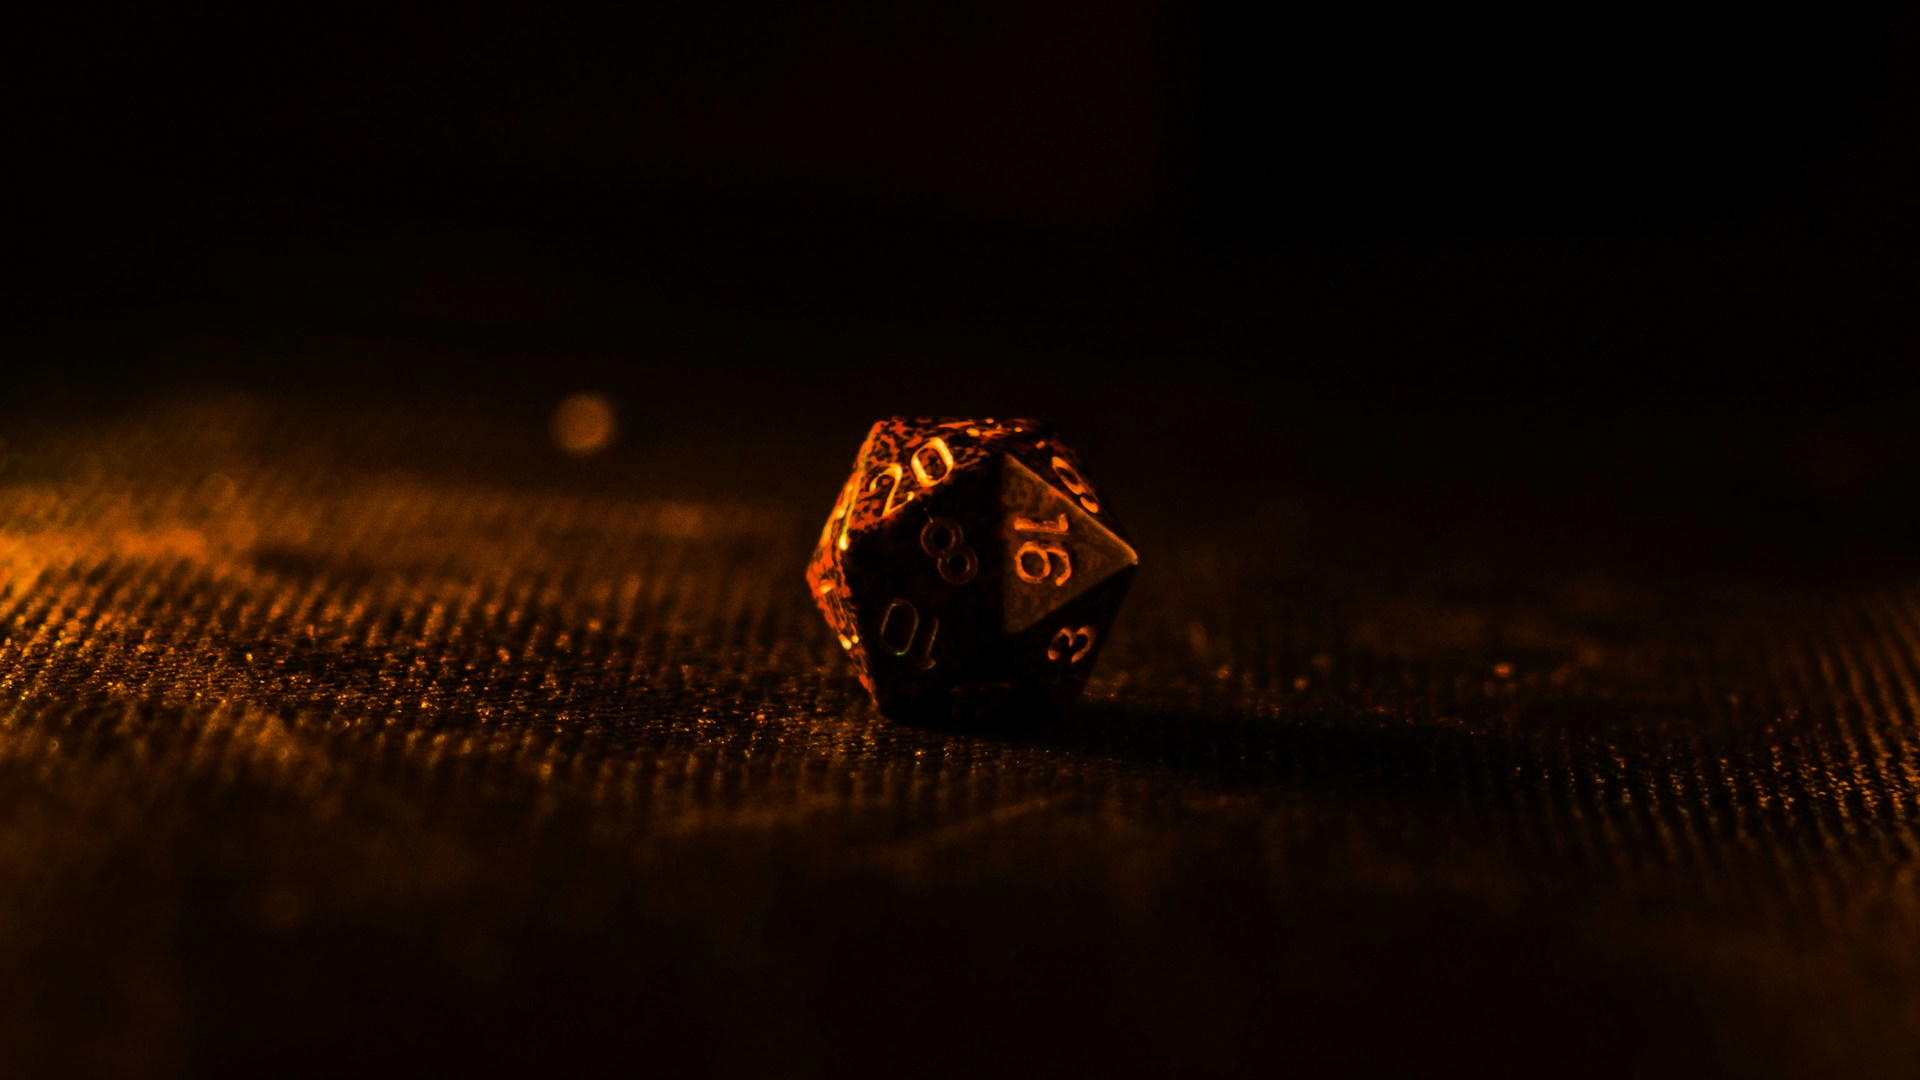
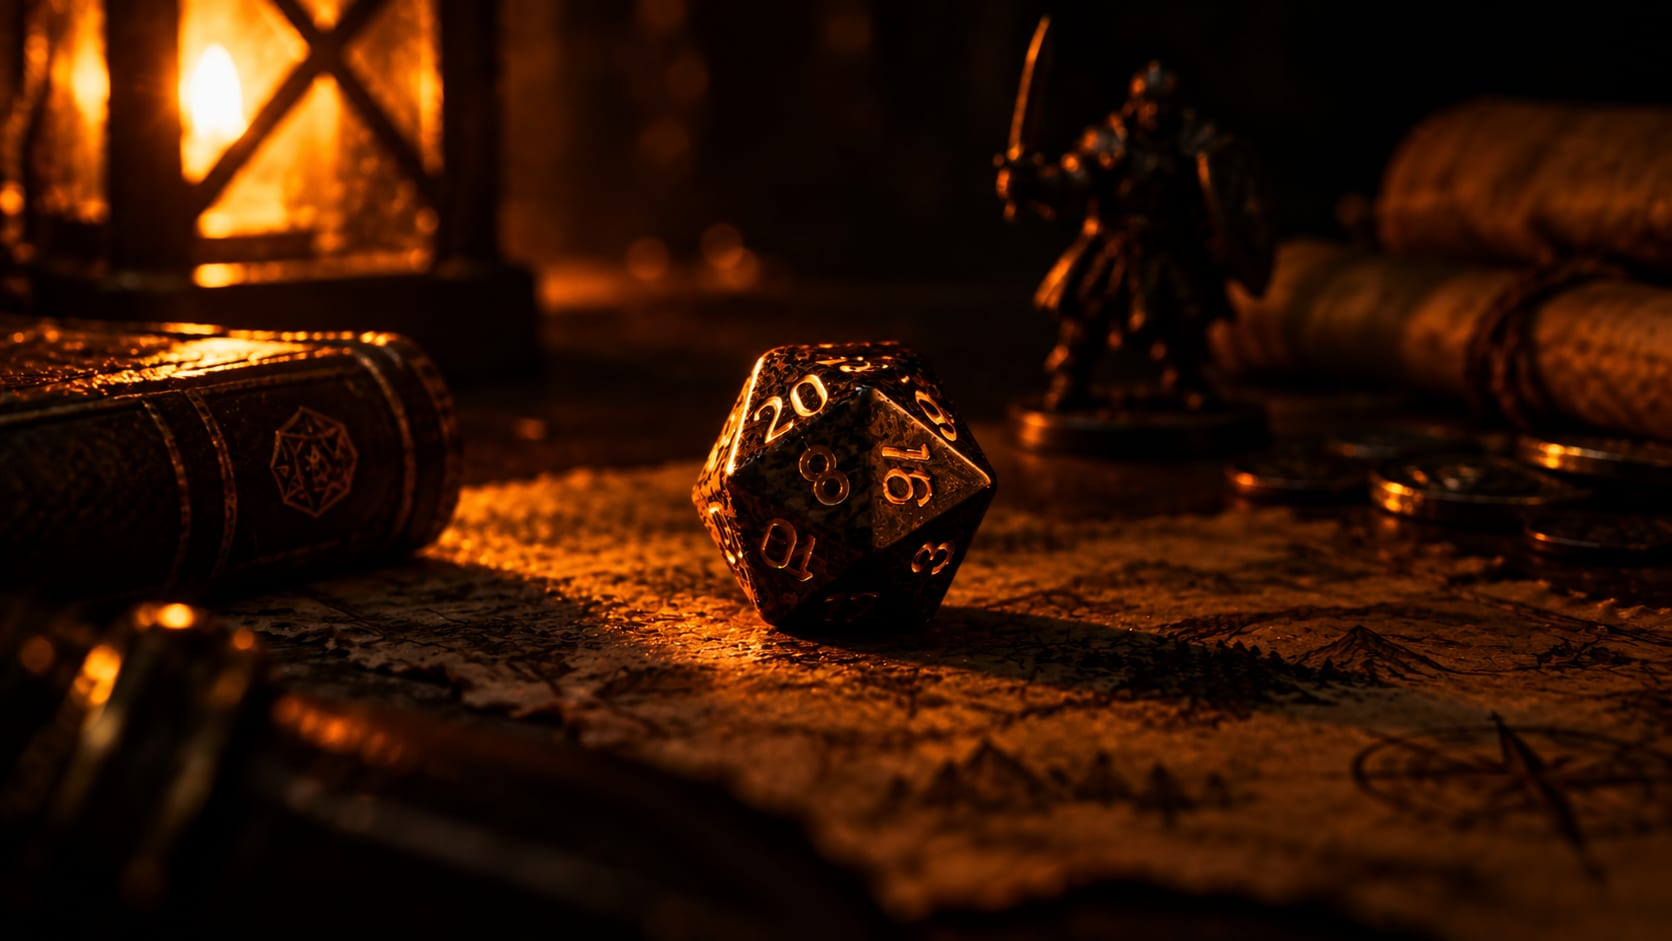
feat: update tabletop RPG cover imag

diff --git a/src/locales/pt-BR.ts b/src/locales/pt-BR.ts
@@ -148,7 +148,7 @@ export const ptBR = {
       'Hoje isso significa desenvolver soluções para a indústria, pensando em escalabilidade e segurança desde o começo. Mas a tecnologia é detalhe — .NET hoje, Python ontem, C na 42. O trabalho, no fundo, sempre vai ser o mesmo: resolver problema.',
       'Comecei a resolver problema de verdade ainda na graduação, e não parei desde então. Passei por desktop, back-end e front-end até entender onde eu rendo mais — que é no back-end, perto de onde a decisão técnica pesa.',
     ],
-    dndAlt: 'Dado de vinte lados sobre uma mesa escura, iluminado em tom alaranjado',
+    dndAlt: 'Dado de vinte lados sobre um mapa antigo, iluminado por uma lanterna, com livro, miniatura de guerreiro e moedas ao redor',
     badgesTitle: 'Badges',
     badgesText: 'Sou uma pessoa que ama coleções, e uma dessas minhas coleções atuais são as badges no',
     credential: 'Ver credencial',

diff --git a/src/locales/en.ts b/src/locales/en.ts
@@ -149,7 +149,7 @@ export const en: typeof ptBR = {
       'Right now that means building software for industry, with scalability and security considered from the start. But the technology is a detail — .NET today, Python yesterday, C at 42. The job underneath is always the same: solve the problem.',
       'I started solving real problems back in university and never stopped. I went through desktop, back-end and front-end until I understood where I am strongest — the back-end, close to where technical decisions carry weight.',
     ],
-    dndAlt: 'A twenty-sided die on a dark table, lit in warm orange',
+    dndAlt: 'A twenty-sided die on an old map, lit by a lantern, surrounded by a book, a warrior miniature and coins',
     badgesTitle: 'Badges',
     badgesText: 'I love collections, and one of my current collections is badges on',
     credential: 'View credential',
